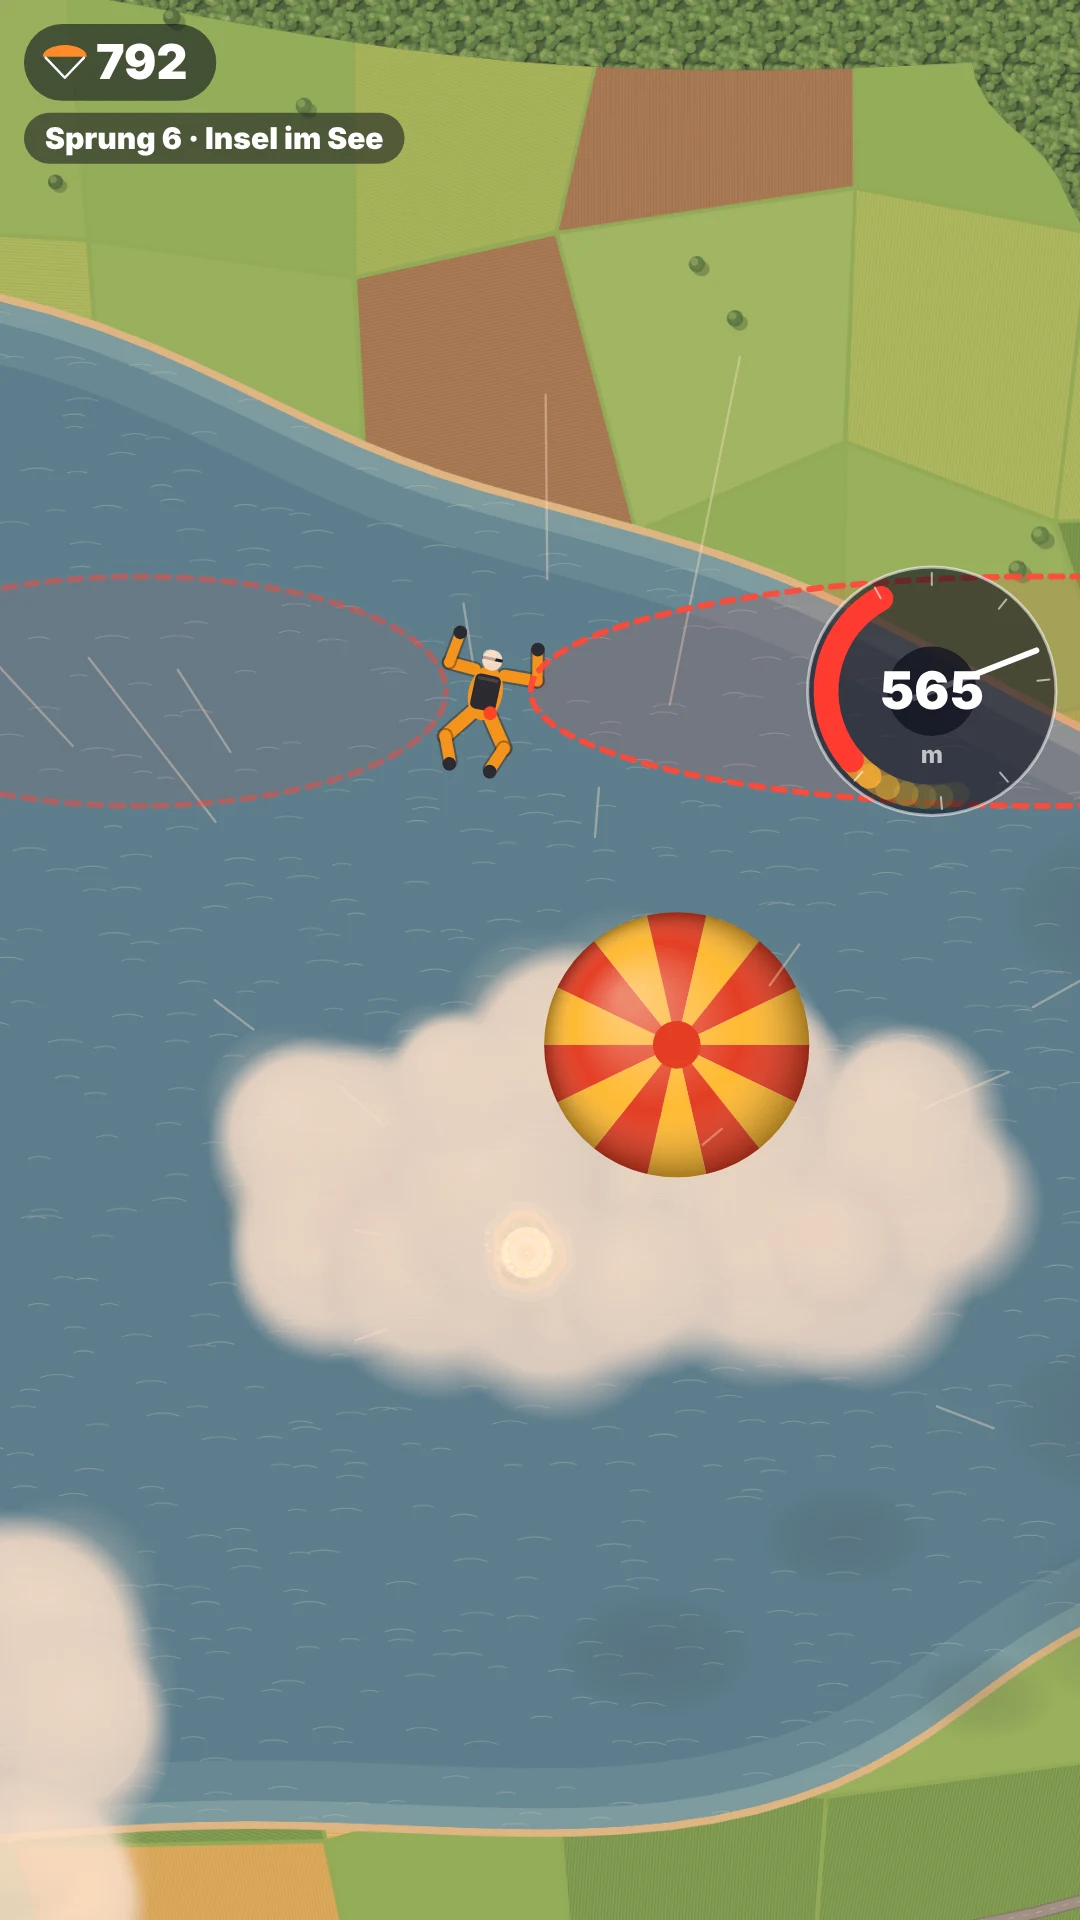
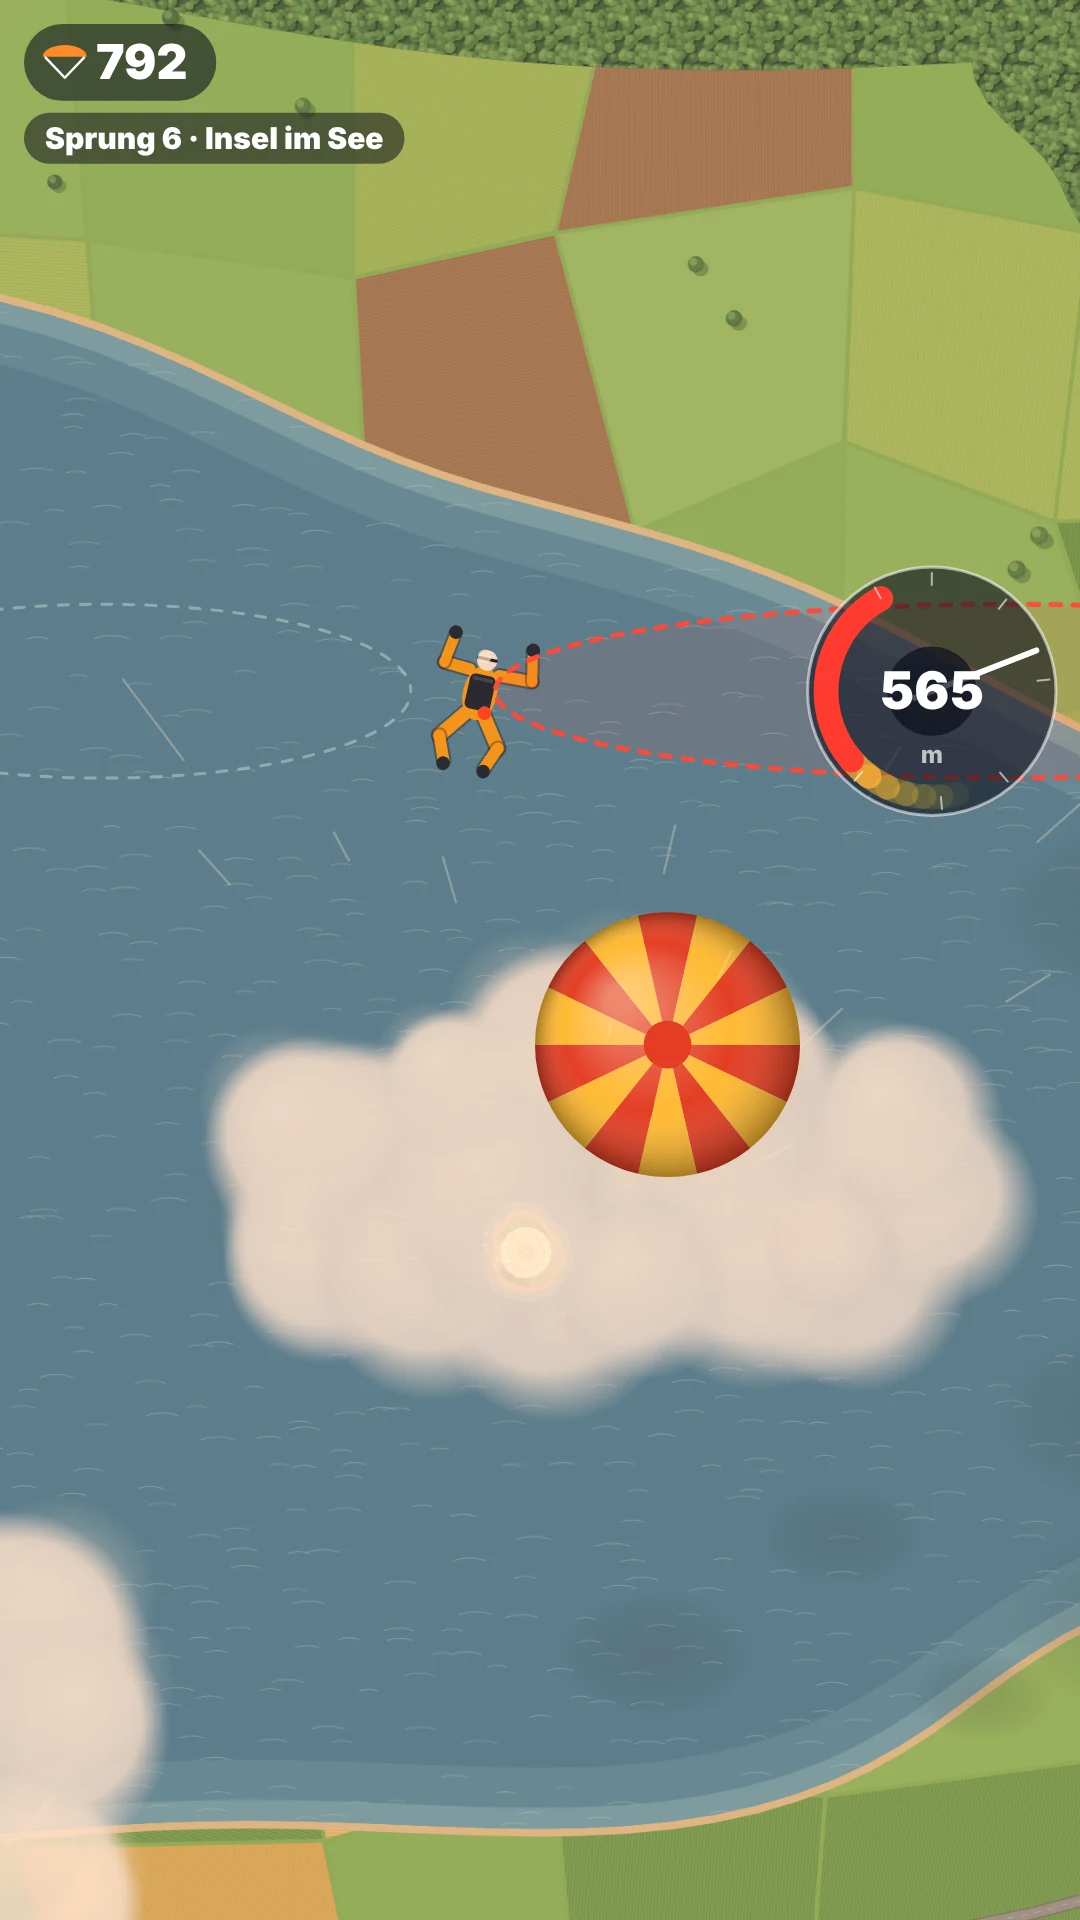
Fallschirm: Sprung um Sprung aus dem Flugzeug – zieh so spät wie möglich
Ein neues Spiel für die arcade: Freier Fall von oben gesehen, der Boden
kommt in Kacheln aus der Tiefe herauf (mehrere Auflösungen, weich
überblendet). Halten lenkt, ein Wisch nach oben zieht den Schirm und fängt
kurz vor dem Boden ab. Punkte fürs späte Ziehen, für die Ringe im Ziel und
fürs weiche Aufsetzen; Hindernisse im Fall, Wind und Böen, bewegliche
Ziele, Abendrot und Nacht. Dazu Prüfabschnitt 4g20, Vorführung und
Standbilder.

Claude-Session: https://claude.ai/code/session_01Psf4iZAqeQEYw64c7esvQu

diff --git a/fallschirm.js b/fallschirm.js
@@ -105,7 +105,6 @@
   const R_FREI = 0.8;              // so breit trifft der Springer im Fall (halb, m)
   const R_SCHIRM = 3.4;            // … und am Schirm
   const ZUG_MAX = 100;             // Punkte für das Ziehen genau an der Mindesthöhe
-  const RING_PUNKTE = [50, 25, 10];
   const T_INTRO = 1.5;             // so lange fliegt das Flugzeug vor jedem weiteren Sprung (s)
   const T_GELANDET = 1.9;          // so lange steht er nach einer Landung (s)
   const T_FEHLER = 1.5;            // so lange nach einem Fehler bis zur Tafel (s)
@@ -1452,10 +1451,11 @@
    *   wolken       die Saat der Wolken (nur zum Ansehen)
    *
    * Die Hindernisse liegen auf dem Weg vom Absprung zum Ziel, je eines in
-   * einem eigenen Höhenband – zwischen zweien bleibt immer Zeit zum Lenken.
-   * Wer bewegt ist (Vögel, Ballon, Segler, ein Schirm), ist so gesetzt, dass
-   * er dort ist, wenn der Springer im freien Fall seine Höhe erreicht: Der
-   * Fall ist ohne Ziehen für alle gleich schnell.
+   * einem eigenen Zeitfenster des Falls, und immer so, dass ein Weg frei
+   * bleibt (setzeHindernisse). Wer bewegt ist (Vögel, Ballon, Segler, ein
+   * Schirm), ist so gesetzt, dass er dort ist, wenn der Springer im freien
+   * Fall seine Höhe erreicht: Der Fall ist ohne Ziehen für alle gleich
+   * schnell.
    */
   const Z_JE_SPRUNG = 48;
   const HINDERNIS = {
